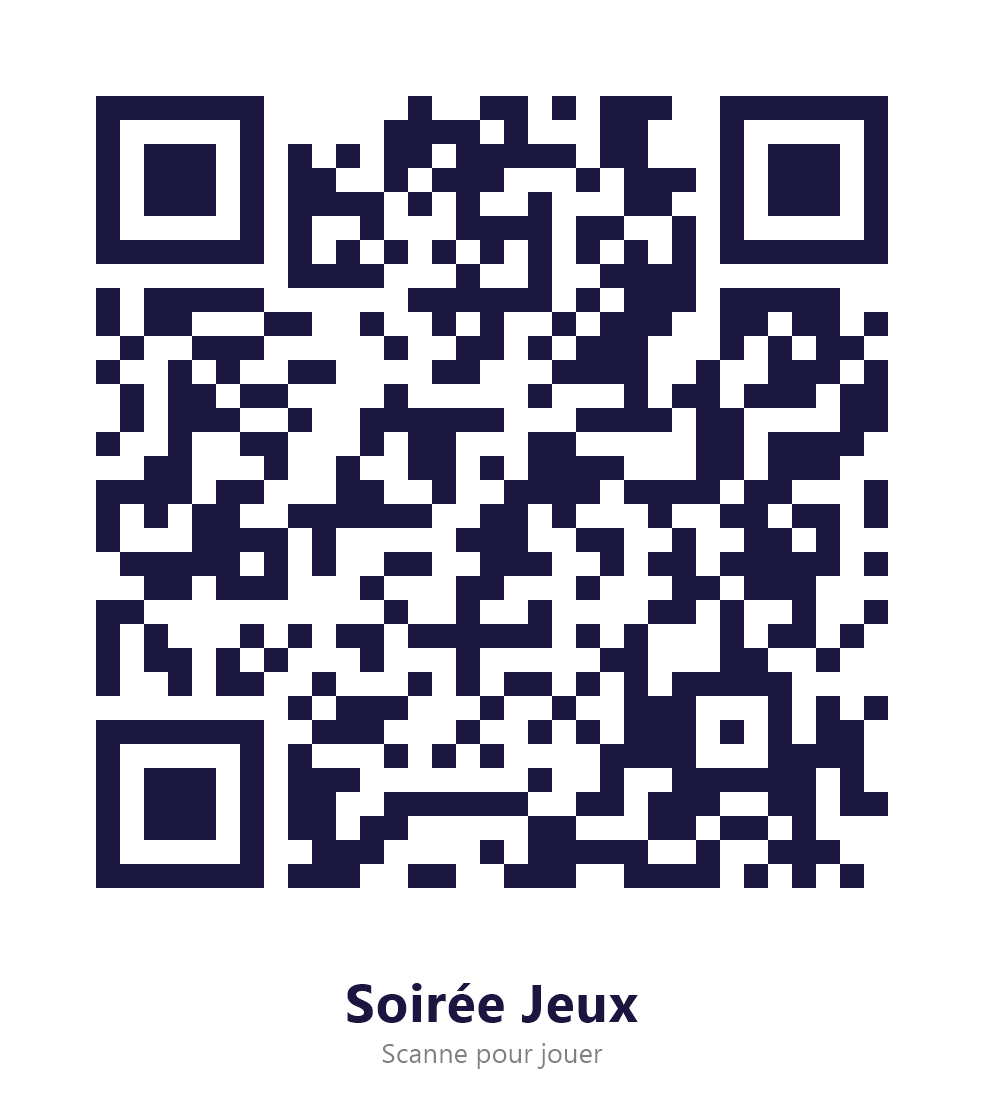
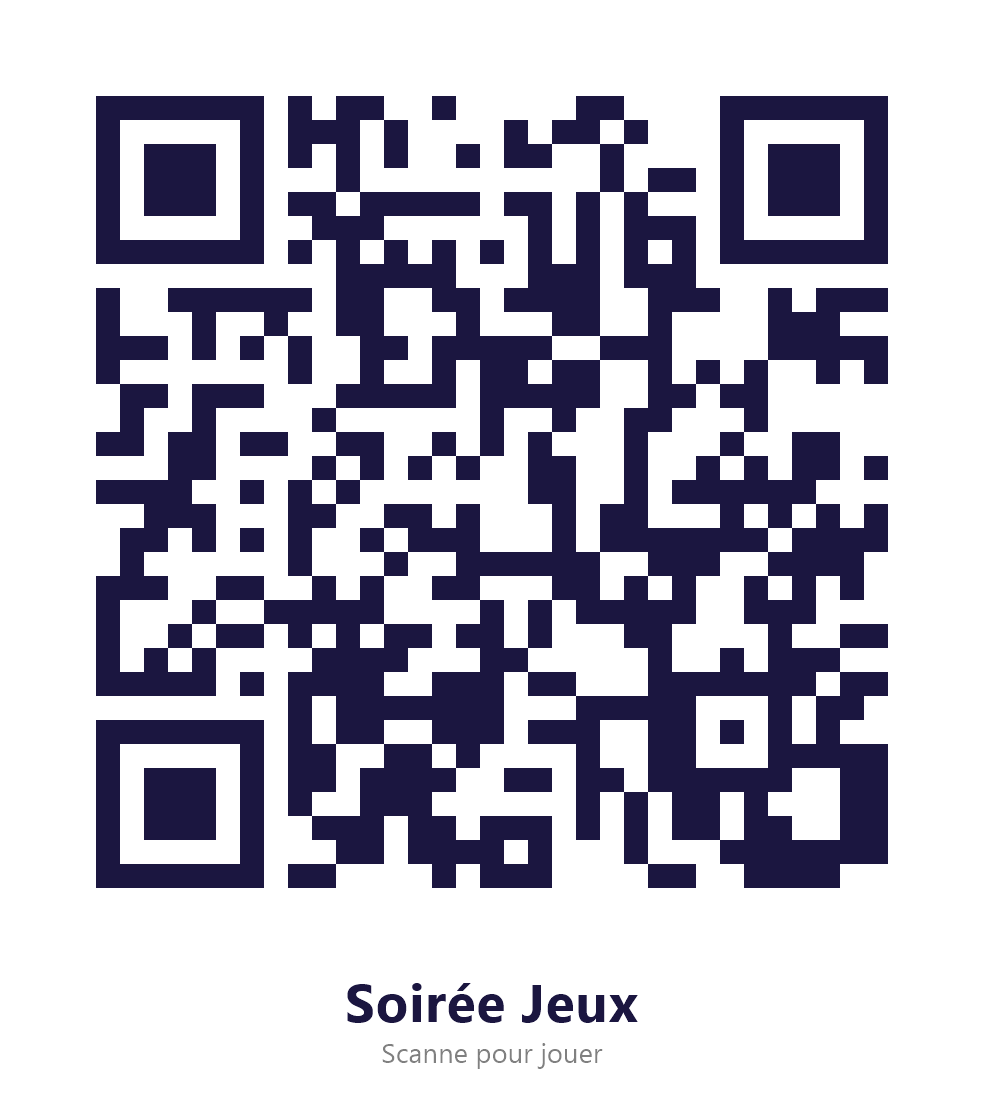
QR code et lien vers l'adresse Soiree-jeux

Changed region(s): [[0.0915, 0.061, 0.9146, 0.7935]]

diff --git a/index.html b/index.html
@@ -277,7 +277,7 @@ input,select{font:inherit}
   <div class="top"><button class="back" onclick="go('s-home')">‹ Accueil</button><h2>Partager l'appli</h2><span style="width:80px"></span></div>
   <div class="panel center">
     <h3>Scannez avec l'appareil photo</h3>
-    <div class="qrbox"><svg xmlns="http://www.w3.org/2000/svg" viewBox="0 0 41 41" shape-rendering="crispEdges"><rect width="41" height="41" fill="#fff"/><path fill="#1b1640" d="M4 4h1v1h-1zM5 4h1v1h-1zM6 4h1v1h-1zM7 4h1v1h-1zM8 4h1v1h-1zM9 4h1v1h-1zM10 4h1v1h-1zM17 4h1v1h-1zM20 4h1v1h-1zM21 4h1v1h-1zM23 4h1v1h-1zM25 4h1v1h-1zM26 4h1v1h-1zM27 4h1v1h-1zM30 4h1v1h-1zM31 4h1v1h-1zM32 4h1v1h-1zM33 4h1v1h-1zM34 4h1v1h-1zM35 4h1v1h-1zM36 4h1v1h-1zM4 5h1v1h-1zM10 5h1v1h-1zM16 5h1v1h-1zM17 5h1v1h-1zM18 5h1v1h-1zM19 5h1v1h-1zM21 5h1v1h-1zM25 5h1v1h-1zM26 5h1v1h-1zM30 5h1v1h-1zM36 5h1v1h-1zM4 6h1v1h-1zM6 6h1v1h-1zM7 6h1v1h-1zM8 6h1v1h-1zM10 6h1v1h-1zM12 6h1v1h-1zM14 6h1v1h-1zM16 6h1v1h-1zM17 6h1v1h-1zM19 6h1v1h-1zM20 6h1v1h-1zM21 6h1v1h-1zM22 6h1v1h-1zM23 6h1v1h-1zM25 6h1v1h-1zM26 6h1v1h-1zM30 6h1v1h-1zM32 6h1v1h-1zM33 6h1v1h-1zM34 6h1v1h-1zM36 6h1v1h-1zM4 7h1v1h-1zM6 7h1v1h-1zM7 7h1v1h-1zM8 7h1v1h-1zM10 7h1v1h-1zM12 7h1v1h-1zM13 7h1v1h-1zM16 7h1v1h-1zM18 7h1v1h-1zM19 7h1v1h-1zM20 7h1v1h-1zM24 7h1v1h-1zM26 7h1v1h-1zM27 7h1v1h-1zM28 7h1v1h-1zM30 7h1v1h-1zM32 7h1v1h-1zM33 7h1v1h-1zM34 7h1v1h-1zM36 7h1v1h-1zM4 8h1v1h-1zM6 8h1v1h-1zM7 8h1v1h-1zM8 8h1v1h-1zM10 8h1v1h-1zM12 8h1v1h-1zM13 8h1v1h-1zM14 8h1v1h-1zM15 8h1v1h-1zM17 8h1v1h-1zM19 8h1v1h-1zM22 8h1v1h-1zM26 8h1v1h-1zM27 8h1v1h-1zM30 8h1v1h-1zM32 8h1v1h-1zM33 8h1v1h-1zM34 8h1v1h-1zM36 8h1v1h-1zM4 9h1v1h-1zM10 9h1v1h-1zM12 9h1v1h-1zM15 9h1v1h-1zM19 9h1v1h-1zM20 9h1v1h-1zM21 9h1v1h-1zM22 9h1v1h-1zM24 9h1v1h-1zM25 9h1v1h-1zM28 9h1v1h-1zM30 9h1v1h-1zM36 9h1v1h-1zM4 10h1v1h-1zM5 10h1v1h-1zM6 10h1v1h-1zM7 10h1v1h-1zM8 10h1v1h-1zM9 10h1v1h-1zM10 10h1v1h-1zM12 10h1v1h-1zM14 10h1v1h-1zM16 10h1v1h-1zM18 10h1v1h-1zM20 10h1v1h-1zM22 10h1v1h-1zM24 10h1v1h-1zM26 10h1v1h-1zM28 10h1v1h-1zM30 10h1v1h-1zM31 10h1v1h-1zM32 10h1v1h-1zM33 10h1v1h-1zM34 10h1v1h-1zM35 10h1v1h-1zM36 10h1v1h-1zM12 11h1v1h-1zM13 11h1v1h-1zM14 11h1v1h-1zM15 11h1v1h-1zM19 11h1v1h-1zM22 11h1v1h-1zM25 11h1v1h-1zM26 11h1v1h-1zM27 11h1v1h-1zM28 11h1v1h-1zM4 12h1v1h-1zM6 12h1v1h-1zM7 12h1v1h-1zM8 12h1v1h-1zM9 12h1v1h-1zM10 12h1v1h-1zM17 12h1v1h-1zM18 12h1v1h-1zM19 12h1v1h-1zM20 12h1v1h-1zM21 12h1v1h-1zM22 12h1v1h-1zM24 12h1v1h-1zM26 12h1v1h-1zM27 12h1v1h-1zM28 12h1v1h-1zM30 12h1v1h-1zM31 12h1v1h-1zM32 12h1v1h-1zM33 12h1v1h-1zM34 12h1v1h-1zM4 13h1v1h-1zM6 13h1v1h-1zM7 13h1v1h-1zM11 13h1v1h-1zM12 13h1v1h-1zM15 13h1v1h-1zM18 13h1v1h-1zM20 13h1v1h-1zM23 13h1v1h-1zM25 13h1v1h-1zM26 13h1v1h-1zM27 13h1v1h-1zM30 13h1v1h-1zM31 13h1v1h-1zM33 13h1v1h-1zM34 13h1v1h-1zM36 13h1v1h-1zM5 14h1v1h-1zM8 14h1v1h-1zM9 14h1v1h-1zM10 14h1v1h-1zM16 14h1v1h-1zM19 14h1v1h-1zM20 14h1v1h-1zM22 14h1v1h-1zM24 14h1v1h-1zM25 14h1v1h-1zM26 14h1v1h-1zM30 14h1v1h-1zM32 14h1v1h-1zM34 14h1v1h-1zM35 14h1v1h-1zM4 15h1v1h-1zM7 15h1v1h-1zM9 15h1v1h-1zM12 15h1v1h-1zM13 15h1v1h-1zM18 15h1v1h-1zM19 15h1v1h-1zM23 15h1v1h-1zM24 15h1v1h-1zM25 15h1v1h-1zM26 15h1v1h-1zM29 15h1v1h-1zM32 15h1v1h-1zM33 15h1v1h-1zM34 15h1v1h-1zM36 15h1v1h-1zM5 16h1v1h-1zM7 16h1v1h-1zM8 16h1v1h-1zM10 16h1v1h-1zM11 16h1v1h-1zM16 16h1v1h-1zM22 16h1v1h-1zM26 16h1v1h-1zM28 16h1v1h-1zM29 16h1v1h-1zM31 16h1v1h-1zM32 16h1v1h-1zM33 16h1v1h-1zM35 16h1v1h-1zM36 16h1v1h-1zM5 17h1v1h-1zM7 17h1v1h-1zM8 17h1v1h-1zM9 17h1v1h-1zM12 17h1v1h-1zM15 17h1v1h-1zM16 17h1v1h-1zM17 17h1v1h-1zM18 17h1v1h-1zM19 17h1v1h-1zM20 17h1v1h-1zM24 17h1v1h-1zM25 17h1v1h-1zM26 17h1v1h-1zM27 17h1v1h-1zM29 17h1v1h-1zM30 17h1v1h-1zM35 17h1v1h-1zM36 17h1v1h-1zM4 18h1v1h-1zM7 18h1v1h-1zM10 18h1v1h-1zM11 18h1v1h-1zM15 18h1v1h-1zM17 18h1v1h-1zM18 18h1v1h-1zM22 18h1v1h-1zM23 18h1v1h-1zM29 18h1v1h-1zM30 18h1v1h-1zM32 18h1v1h-1zM33 18h1v1h-1zM34 18h1v1h-1zM35 18h1v1h-1zM6 19h1v1h-1zM7 19h1v1h-1zM11 19h1v1h-1zM14 19h1v1h-1zM17 19h1v1h-1zM18 19h1v1h-1zM20 19h1v1h-1zM22 19h1v1h-1zM23 19h1v1h-1zM24 19h1v1h-1zM25 19h1v1h-1zM29 19h1v1h-1zM30 19h1v1h-1zM32 19h1v1h-1zM33 19h1v1h-1zM34 19h1v1h-1zM4 20h1v1h-1zM5 20h1v1h-1zM6 20h1v1h-1zM7 20h1v1h-1zM9 20h1v1h-1zM10 20h1v1h-1zM14 20h1v1h-1zM15 20h1v1h-1zM18 20h1v1h-1zM21 20h1v1h-1zM22 20h1v1h-1zM23 20h1v1h-1zM24 20h1v1h-1zM26 20h1v1h-1zM27 20h1v1h-1zM28 20h1v1h-1zM29 20h1v1h-1zM31 20h1v1h-1zM32 20h1v1h-1zM36 20h1v1h-1zM4 21h1v1h-1zM6 21h1v1h-1zM8 21h1v1h-1zM9 21h1v1h-1zM12 21h1v1h-1zM13 21h1v1h-1zM14 21h1v1h-1zM15 21h1v1h-1zM16 21h1v1h-1zM17 21h1v1h-1zM20 21h1v1h-1zM21 21h1v1h-1zM23 21h1v1h-1zM27 21h1v1h-1zM30 21h1v1h-1zM31 21h1v1h-1zM33 21h1v1h-1zM34 21h1v1h-1zM36 21h1v1h-1zM4 22h1v1h-1zM8 22h1v1h-1zM9 22h1v1h-1zM10 22h1v1h-1zM11 22h1v1h-1zM13 22h1v1h-1zM19 22h1v1h-1zM20 22h1v1h-1zM21 22h1v1h-1zM24 22h1v1h-1zM25 22h1v1h-1zM28 22h1v1h-1zM31 22h1v1h-1zM32 22h1v1h-1zM34 22h1v1h-1zM5 23h1v1h-1zM6 23h1v1h-1zM7 23h1v1h-1zM8 23h1v1h-1zM9 23h1v1h-1zM11 23h1v1h-1zM13 23h1v1h-1zM16 23h1v1h-1zM17 23h1v1h-1zM20 23h1v1h-1zM21 23h1v1h-1zM22 23h1v1h-1zM25 23h1v1h-1zM27 23h1v1h-1zM28 23h1v1h-1zM30 23h1v1h-1zM31 23h1v1h-1zM32 23h1v1h-1zM33 23h1v1h-1zM34 23h1v1h-1zM36 23h1v1h-1zM6 24h1v1h-1zM7 24h1v1h-1zM9 24h1v1h-1zM10 24h1v1h-1zM11 24h1v1h-1zM15 24h1v1h-1zM19 24h1v1h-1zM20 24h1v1h-1zM24 24h1v1h-1zM28 24h1v1h-1zM29 24h1v1h-1zM31 24h1v1h-1zM32 24h1v1h-1zM33 24h1v1h-1zM4 25h1v1h-1zM5 25h1v1h-1zM16 25h1v1h-1zM19 25h1v1h-1zM22 25h1v1h-1zM27 25h1v1h-1zM28 25h1v1h-1zM30 25h1v1h-1zM33 25h1v1h-1zM36 25h1v1h-1zM4 26h1v1h-1zM6 26h1v1h-1zM10 26h1v1h-1zM12 26h1v1h-1zM14 26h1v1h-1zM15 26h1v1h-1zM17 26h1v1h-1zM18 26h1v1h-1zM19 26h1v1h-1zM20 26h1v1h-1zM21 26h1v1h-1zM22 26h1v1h-1zM24 26h1v1h-1zM26 26h1v1h-1zM30 26h1v1h-1zM32 26h1v1h-1zM33 26h1v1h-1zM35 26h1v1h-1zM4 27h1v1h-1zM6 27h1v1h-1zM7 27h1v1h-1zM9 27h1v1h-1zM11 27h1v1h-1zM15 27h1v1h-1zM19 27h1v1h-1zM25 27h1v1h-1zM26 27h1v1h-1zM30 27h1v1h-1zM31 27h1v1h-1zM34 27h1v1h-1zM4 28h1v1h-1zM7 28h1v1h-1zM9 28h1v1h-1zM10 28h1v1h-1zM13 28h1v1h-1zM17 28h1v1h-1zM19 28h1v1h-1zM21 28h1v1h-1zM22 28h1v1h-1zM24 28h1v1h-1zM26 28h1v1h-1zM28 28h1v1h-1zM29 28h1v1h-1zM30 28h1v1h-1zM31 28h1v1h-1zM32 28h1v1h-1zM12 29h1v1h-1zM14 29h1v1h-1zM15 29h1v1h-1zM16 29h1v1h-1zM20 29h1v1h-1zM23 29h1v1h-1zM26 29h1v1h-1zM27 29h1v1h-1zM28 29h1v1h-1zM32 29h1v1h-1zM34 29h1v1h-1zM36 29h1v1h-1zM4 30h1v1h-1zM5 30h1v1h-1zM6 30h1v1h-1zM7 30h1v1h-1zM8 30h1v1h-1zM9 30h1v1h-1zM10 30h1v1h-1zM13 30h1v1h-1zM14 30h1v1h-1zM15 30h1v1h-1zM19 30h1v1h-1zM22 30h1v1h-1zM24 30h1v1h-1zM26 30h1v1h-1zM27 30h1v1h-1zM28 30h1v1h-1zM30 30h1v1h-1zM32 30h1v1h-1zM34 30h1v1h-1zM35 30h1v1h-1zM4 31h1v1h-1zM10 31h1v1h-1zM12 31h1v1h-1zM16 31h1v1h-1zM18 31h1v1h-1zM20 31h1v1h-1zM25 31h1v1h-1zM26 31h1v1h-1zM27 31h1v1h-1zM28 31h1v1h-1zM32 31h1v1h-1zM33 31h1v1h-1zM34 31h1v1h-1zM35 31h1v1h-1zM4 32h1v1h-1zM6 32h1v1h-1zM7 32h1v1h-1zM8 32h1v1h-1zM10 32h1v1h-1zM12 32h1v1h-1zM13 32h1v1h-1zM14 32h1v1h-1zM22 32h1v1h-1zM25 32h1v1h-1zM28 32h1v1h-1zM29 32h1v1h-1zM30 32h1v1h-1zM31 32h1v1h-1zM32 32h1v1h-1zM33 32h1v1h-1zM35 32h1v1h-1zM4 33h1v1h-1zM6 33h1v1h-1zM7 33h1v1h-1zM8 33h1v1h-1zM10 33h1v1h-1zM12 33h1v1h-1zM13 33h1v1h-1zM16 33h1v1h-1zM17 33h1v1h-1zM18 33h1v1h-1zM19 33h1v1h-1zM20 33h1v1h-1zM21 33h1v1h-1zM24 33h1v1h-1zM25 33h1v1h-1zM27 33h1v1h-1zM28 33h1v1h-1zM29 33h1v1h-1zM32 33h1v1h-1zM33 33h1v1h-1zM35 33h1v1h-1zM36 33h1v1h-1zM4 34h1v1h-1zM6 34h1v1h-1zM7 34h1v1h-1zM8 34h1v1h-1zM10 34h1v1h-1zM12 34h1v1h-1zM13 34h1v1h-1zM15 34h1v1h-1zM16 34h1v1h-1zM22 34h1v1h-1zM23 34h1v1h-1zM27 34h1v1h-1zM28 34h1v1h-1zM30 34h1v1h-1zM31 34h1v1h-1zM33 34h1v1h-1zM4 35h1v1h-1zM10 35h1v1h-1zM13 35h1v1h-1zM14 35h1v1h-1zM15 35h1v1h-1zM20 35h1v1h-1zM22 35h1v1h-1zM23 35h1v1h-1zM24 35h1v1h-1zM25 35h1v1h-1zM26 35h1v1h-1zM29 35h1v1h-1zM32 35h1v1h-1zM33 35h1v1h-1zM34 35h1v1h-1zM4 36h1v1h-1zM5 36h1v1h-1zM6 36h1v1h-1zM7 36h1v1h-1zM8 36h1v1h-1zM9 36h1v1h-1zM10 36h1v1h-1zM12 36h1v1h-1zM13 36h1v1h-1zM14 36h1v1h-1zM17 36h1v1h-1zM18 36h1v1h-1zM21 36h1v1h-1zM22 36h1v1h-1zM23 36h1v1h-1zM26 36h1v1h-1zM27 36h1v1h-1zM28 36h1v1h-1zM29 36h1v1h-1zM31 36h1v1h-1zM33 36h1v1h-1zM35 36h1v1h-1z"/></svg></div>
+    <div class="qrbox"><svg xmlns="http://www.w3.org/2000/svg" viewBox="0 0 41 41" shape-rendering="crispEdges"><rect width="41" height="41" fill="#fff"/><path fill="#1b1640" d="M4 4h1v1h-1zM5 4h1v1h-1zM6 4h1v1h-1zM7 4h1v1h-1zM8 4h1v1h-1zM9 4h1v1h-1zM10 4h1v1h-1zM12 4h1v1h-1zM14 4h1v1h-1zM15 4h1v1h-1zM18 4h1v1h-1zM24 4h1v1h-1zM25 4h1v1h-1zM30 4h1v1h-1zM31 4h1v1h-1zM32 4h1v1h-1zM33 4h1v1h-1zM34 4h1v1h-1zM35 4h1v1h-1zM36 4h1v1h-1zM4 5h1v1h-1zM10 5h1v1h-1zM12 5h1v1h-1zM13 5h1v1h-1zM14 5h1v1h-1zM16 5h1v1h-1zM21 5h1v1h-1zM23 5h1v1h-1zM24 5h1v1h-1zM26 5h1v1h-1zM30 5h1v1h-1zM36 5h1v1h-1zM4 6h1v1h-1zM6 6h1v1h-1zM7 6h1v1h-1zM8 6h1v1h-1zM10 6h1v1h-1zM12 6h1v1h-1zM14 6h1v1h-1zM16 6h1v1h-1zM19 6h1v1h-1zM21 6h1v1h-1zM22 6h1v1h-1zM25 6h1v1h-1zM30 6h1v1h-1zM32 6h1v1h-1zM33 6h1v1h-1zM34 6h1v1h-1zM36 6h1v1h-1zM4 7h1v1h-1zM6 7h1v1h-1zM7 7h1v1h-1zM8 7h1v1h-1zM10 7h1v1h-1zM14 7h1v1h-1zM25 7h1v1h-1zM27 7h1v1h-1zM28 7h1v1h-1zM30 7h1v1h-1zM32 7h1v1h-1zM33 7h1v1h-1zM34 7h1v1h-1zM36 7h1v1h-1zM4 8h1v1h-1zM6 8h1v1h-1zM7 8h1v1h-1zM8 8h1v1h-1zM10 8h1v1h-1zM12 8h1v1h-1zM13 8h1v1h-1zM15 8h1v1h-1zM16 8h1v1h-1zM17 8h1v1h-1zM18 8h1v1h-1zM19 8h1v1h-1zM21 8h1v1h-1zM22 8h1v1h-1zM24 8h1v1h-1zM26 8h1v1h-1zM30 8h1v1h-1zM32 8h1v1h-1zM33 8h1v1h-1zM34 8h1v1h-1zM36 8h1v1h-1zM4 9h1v1h-1zM10 9h1v1h-1zM13 9h1v1h-1zM14 9h1v1h-1zM15 9h1v1h-1zM22 9h1v1h-1zM24 9h1v1h-1zM26 9h1v1h-1zM27 9h1v1h-1zM28 9h1v1h-1zM30 9h1v1h-1zM36 9h1v1h-1zM4 10h1v1h-1zM5 10h1v1h-1zM6 10h1v1h-1zM7 10h1v1h-1zM8 10h1v1h-1zM9 10h1v1h-1zM10 10h1v1h-1zM12 10h1v1h-1zM14 10h1v1h-1zM16 10h1v1h-1zM18 10h1v1h-1zM20 10h1v1h-1zM22 10h1v1h-1zM24 10h1v1h-1zM26 10h1v1h-1zM28 10h1v1h-1zM30 10h1v1h-1zM31 10h1v1h-1zM32 10h1v1h-1zM33 10h1v1h-1zM34 10h1v1h-1zM35 10h1v1h-1zM36 10h1v1h-1zM14 11h1v1h-1zM15 11h1v1h-1zM16 11h1v1h-1zM17 11h1v1h-1zM18 11h1v1h-1zM22 11h1v1h-1zM23 11h1v1h-1zM24 11h1v1h-1zM26 11h1v1h-1zM27 11h1v1h-1zM28 11h1v1h-1zM4 12h1v1h-1zM7 12h1v1h-1zM8 12h1v1h-1zM9 12h1v1h-1zM10 12h1v1h-1zM11 12h1v1h-1zM12 12h1v1h-1zM14 12h1v1h-1zM15 12h1v1h-1zM18 12h1v1h-1zM19 12h1v1h-1zM21 12h1v1h-1zM22 12h1v1h-1zM23 12h1v1h-1zM24 12h1v1h-1zM27 12h1v1h-1zM28 12h1v1h-1zM29 12h1v1h-1zM32 12h1v1h-1zM34 12h1v1h-1zM35 12h1v1h-1zM36 12h1v1h-1zM4 13h1v1h-1zM8 13h1v1h-1zM11 13h1v1h-1zM14 13h1v1h-1zM15 13h1v1h-1zM19 13h1v1h-1zM23 13h1v1h-1zM24 13h1v1h-1zM27 13h1v1h-1zM32 13h1v1h-1zM33 13h1v1h-1zM34 13h1v1h-1zM4 14h1v1h-1zM5 14h1v1h-1zM6 14h1v1h-1zM8 14h1v1h-1zM10 14h1v1h-1zM12 14h1v1h-1zM15 14h1v1h-1zM16 14h1v1h-1zM18 14h1v1h-1zM19 14h1v1h-1zM20 14h1v1h-1zM21 14h1v1h-1zM22 14h1v1h-1zM25 14h1v1h-1zM26 14h1v1h-1zM27 14h1v1h-1zM32 14h1v1h-1zM33 14h1v1h-1zM34 14h1v1h-1zM35 14h1v1h-1zM36 14h1v1h-1zM4 15h1v1h-1zM12 15h1v1h-1zM15 15h1v1h-1zM18 15h1v1h-1zM20 15h1v1h-1zM21 15h1v1h-1zM23 15h1v1h-1zM24 15h1v1h-1zM27 15h1v1h-1zM29 15h1v1h-1zM31 15h1v1h-1zM34 15h1v1h-1zM36 15h1v1h-1zM5 16h1v1h-1zM6 16h1v1h-1zM8 16h1v1h-1zM9 16h1v1h-1zM10 16h1v1h-1zM14 16h1v1h-1zM15 16h1v1h-1zM16 16h1v1h-1zM17 16h1v1h-1zM18 16h1v1h-1zM20 16h1v1h-1zM21 16h1v1h-1zM22 16h1v1h-1zM23 16h1v1h-1zM24 16h1v1h-1zM27 16h1v1h-1zM28 16h1v1h-1zM30 16h1v1h-1zM31 16h1v1h-1zM5 17h1v1h-1zM8 17h1v1h-1zM13 17h1v1h-1zM20 17h1v1h-1zM23 17h1v1h-1zM26 17h1v1h-1zM27 17h1v1h-1zM31 17h1v1h-1zM4 18h1v1h-1zM5 18h1v1h-1zM7 18h1v1h-1zM8 18h1v1h-1zM10 18h1v1h-1zM11 18h1v1h-1zM14 18h1v1h-1zM15 18h1v1h-1zM18 18h1v1h-1zM20 18h1v1h-1zM22 18h1v1h-1zM26 18h1v1h-1zM30 18h1v1h-1zM33 18h1v1h-1zM34 18h1v1h-1zM7 19h1v1h-1zM8 19h1v1h-1zM13 19h1v1h-1zM15 19h1v1h-1zM17 19h1v1h-1zM19 19h1v1h-1zM22 19h1v1h-1zM23 19h1v1h-1zM26 19h1v1h-1zM29 19h1v1h-1zM31 19h1v1h-1zM33 19h1v1h-1zM34 19h1v1h-1zM36 19h1v1h-1zM4 20h1v1h-1zM5 20h1v1h-1zM6 20h1v1h-1zM7 20h1v1h-1zM10 20h1v1h-1zM12 20h1v1h-1zM14 20h1v1h-1zM22 20h1v1h-1zM23 20h1v1h-1zM26 20h1v1h-1zM28 20h1v1h-1zM29 20h1v1h-1zM30 20h1v1h-1zM31 20h1v1h-1zM32 20h1v1h-1zM33 20h1v1h-1zM6 21h1v1h-1zM7 21h1v1h-1zM8 21h1v1h-1zM12 21h1v1h-1zM13 21h1v1h-1zM16 21h1v1h-1zM17 21h1v1h-1zM19 21h1v1h-1zM23 21h1v1h-1zM25 21h1v1h-1zM26 21h1v1h-1zM30 21h1v1h-1zM32 21h1v1h-1zM34 21h1v1h-1zM36 21h1v1h-1zM5 22h1v1h-1zM6 22h1v1h-1zM8 22h1v1h-1zM10 22h1v1h-1zM12 22h1v1h-1zM15 22h1v1h-1zM17 22h1v1h-1zM18 22h1v1h-1zM19 22h1v1h-1zM23 22h1v1h-1zM25 22h1v1h-1zM26 22h1v1h-1zM27 22h1v1h-1zM28 22h1v1h-1zM29 22h1v1h-1zM30 22h1v1h-1zM31 22h1v1h-1zM33 22h1v1h-1zM34 22h1v1h-1zM35 22h1v1h-1zM36 22h1v1h-1zM5 23h1v1h-1zM12 23h1v1h-1zM16 23h1v1h-1zM19 23h1v1h-1zM20 23h1v1h-1zM21 23h1v1h-1zM22 23h1v1h-1zM23 23h1v1h-1zM24 23h1v1h-1zM27 23h1v1h-1zM28 23h1v1h-1zM29 23h1v1h-1zM32 23h1v1h-1zM33 23h1v1h-1zM34 23h1v1h-1zM35 23h1v1h-1zM4 24h1v1h-1zM5 24h1v1h-1zM6 24h1v1h-1zM9 24h1v1h-1zM10 24h1v1h-1zM13 24h1v1h-1zM15 24h1v1h-1zM18 24h1v1h-1zM19 24h1v1h-1zM23 24h1v1h-1zM24 24h1v1h-1zM26 24h1v1h-1zM28 24h1v1h-1zM31 24h1v1h-1zM33 24h1v1h-1zM35 24h1v1h-1zM4 25h1v1h-1zM8 25h1v1h-1zM11 25h1v1h-1zM12 25h1v1h-1zM13 25h1v1h-1zM14 25h1v1h-1zM15 25h1v1h-1zM20 25h1v1h-1zM22 25h1v1h-1zM24 25h1v1h-1zM25 25h1v1h-1zM26 25h1v1h-1zM27 25h1v1h-1zM28 25h1v1h-1zM31 25h1v1h-1zM32 25h1v1h-1zM33 25h1v1h-1zM4 26h1v1h-1zM7 26h1v1h-1zM9 26h1v1h-1zM10 26h1v1h-1zM12 26h1v1h-1zM14 26h1v1h-1zM16 26h1v1h-1zM17 26h1v1h-1zM19 26h1v1h-1zM20 26h1v1h-1zM22 26h1v1h-1zM26 26h1v1h-1zM27 26h1v1h-1zM32 26h1v1h-1zM35 26h1v1h-1zM36 26h1v1h-1zM4 27h1v1h-1zM6 27h1v1h-1zM8 27h1v1h-1zM13 27h1v1h-1zM14 27h1v1h-1zM15 27h1v1h-1zM16 27h1v1h-1zM20 27h1v1h-1zM21 27h1v1h-1zM27 27h1v1h-1zM30 27h1v1h-1zM32 27h1v1h-1zM33 27h1v1h-1zM34 27h1v1h-1zM4 28h1v1h-1zM5 28h1v1h-1zM6 28h1v1h-1zM7 28h1v1h-1zM8 28h1v1h-1zM10 28h1v1h-1zM12 28h1v1h-1zM13 28h1v1h-1zM14 28h1v1h-1zM15 28h1v1h-1zM18 28h1v1h-1zM19 28h1v1h-1zM20 28h1v1h-1zM22 28h1v1h-1zM23 28h1v1h-1zM27 28h1v1h-1zM28 28h1v1h-1zM29 28h1v1h-1zM30 28h1v1h-1zM31 28h1v1h-1zM32 28h1v1h-1zM33 28h1v1h-1zM35 28h1v1h-1zM36 28h1v1h-1zM12 29h1v1h-1zM14 29h1v1h-1zM15 29h1v1h-1zM16 29h1v1h-1zM17 29h1v1h-1zM18 29h1v1h-1zM19 29h1v1h-1zM20 29h1v1h-1zM24 29h1v1h-1zM25 29h1v1h-1zM26 29h1v1h-1zM27 29h1v1h-1zM28 29h1v1h-1zM32 29h1v1h-1zM34 29h1v1h-1zM35 29h1v1h-1zM4 30h1v1h-1zM5 30h1v1h-1zM6 30h1v1h-1zM7 30h1v1h-1zM8 30h1v1h-1zM9 30h1v1h-1zM10 30h1v1h-1zM12 30h1v1h-1zM14 30h1v1h-1zM15 30h1v1h-1zM18 30h1v1h-1zM19 30h1v1h-1zM20 30h1v1h-1zM22 30h1v1h-1zM23 30h1v1h-1zM24 30h1v1h-1zM27 30h1v1h-1zM28 30h1v1h-1zM30 30h1v1h-1zM32 30h1v1h-1zM34 30h1v1h-1zM4 31h1v1h-1zM10 31h1v1h-1zM12 31h1v1h-1zM13 31h1v1h-1zM16 31h1v1h-1zM17 31h1v1h-1zM19 31h1v1h-1zM24 31h1v1h-1zM27 31h1v1h-1zM28 31h1v1h-1zM32 31h1v1h-1zM33 31h1v1h-1zM34 31h1v1h-1zM35 31h1v1h-1zM36 31h1v1h-1zM4 32h1v1h-1zM6 32h1v1h-1zM7 32h1v1h-1zM8 32h1v1h-1zM10 32h1v1h-1zM12 32h1v1h-1zM13 32h1v1h-1zM15 32h1v1h-1zM16 32h1v1h-1zM17 32h1v1h-1zM18 32h1v1h-1zM21 32h1v1h-1zM22 32h1v1h-1zM24 32h1v1h-1zM25 32h1v1h-1zM27 32h1v1h-1zM28 32h1v1h-1zM29 32h1v1h-1zM30 32h1v1h-1zM31 32h1v1h-1zM32 32h1v1h-1zM35 32h1v1h-1zM36 32h1v1h-1zM4 33h1v1h-1zM6 33h1v1h-1zM7 33h1v1h-1zM8 33h1v1h-1zM10 33h1v1h-1zM12 33h1v1h-1zM15 33h1v1h-1zM16 33h1v1h-1zM17 33h1v1h-1zM24 33h1v1h-1zM26 33h1v1h-1zM28 33h1v1h-1zM29 33h1v1h-1zM31 33h1v1h-1zM35 33h1v1h-1zM36 33h1v1h-1zM4 34h1v1h-1zM6 34h1v1h-1zM7 34h1v1h-1zM8 34h1v1h-1zM10 34h1v1h-1zM13 34h1v1h-1zM14 34h1v1h-1zM15 34h1v1h-1zM17 34h1v1h-1zM18 34h1v1h-1zM20 34h1v1h-1zM21 34h1v1h-1zM22 34h1v1h-1zM24 34h1v1h-1zM26 34h1v1h-1zM28 34h1v1h-1zM29 34h1v1h-1zM31 34h1v1h-1zM32 34h1v1h-1zM35 34h1v1h-1zM36 34h1v1h-1zM4 35h1v1h-1zM10 35h1v1h-1zM14 35h1v1h-1zM15 35h1v1h-1zM17 35h1v1h-1zM18 35h1v1h-1zM19 35h1v1h-1zM20 35h1v1h-1zM22 35h1v1h-1zM26 35h1v1h-1zM30 35h1v1h-1zM31 35h1v1h-1zM32 35h1v1h-1zM33 35h1v1h-1zM34 35h1v1h-1zM35 35h1v1h-1zM36 35h1v1h-1zM4 36h1v1h-1zM5 36h1v1h-1zM6 36h1v1h-1zM7 36h1v1h-1zM8 36h1v1h-1zM9 36h1v1h-1zM10 36h1v1h-1zM12 36h1v1h-1zM13 36h1v1h-1zM18 36h1v1h-1zM20 36h1v1h-1zM21 36h1v1h-1zM22 36h1v1h-1zM27 36h1v1h-1zM28 36h1v1h-1zM31 36h1v1h-1zM32 36h1v1h-1zM33 36h1v1h-1zM34 36h1v1h-1z"/></svg></div>
     <input class="applink" id="applink" readonly>
   </div>
   <button class="btn" id="shareBtn" onclick="shareApp()">Partager le lien</button>
@@ -929,7 +929,7 @@ onEnter['s-life']=function(){ lifeRender(); keepAwake(true); onLeave=function(){
 window.addEventListener('resize',function(){ if($('s-life').classList.contains('active')) setTimeout(lifeFit,50); });
 
 /* =================== PARTAGER =================== */
-var APP_URL='https://jeremyrosa1722038.github.io/soiree-jeux/';
+var APP_URL='https://jeremyrosa1722038.github.io/Soiree-jeux/';
 onEnter['s-share']=function(){ $('applink').value=APP_URL; $('shareBtn').textContent=navigator.share?'Partager le lien':'Copier le lien'; };
 function shareApp(){
   if(navigator.share){ try{ var pr=navigator.share({title:'Soirée Jeux',text:'La boîte à jeux de la famille',url:APP_URL}); if(pr&&pr['catch']) pr['catch'](function(){}); }catch(e){} return; }
